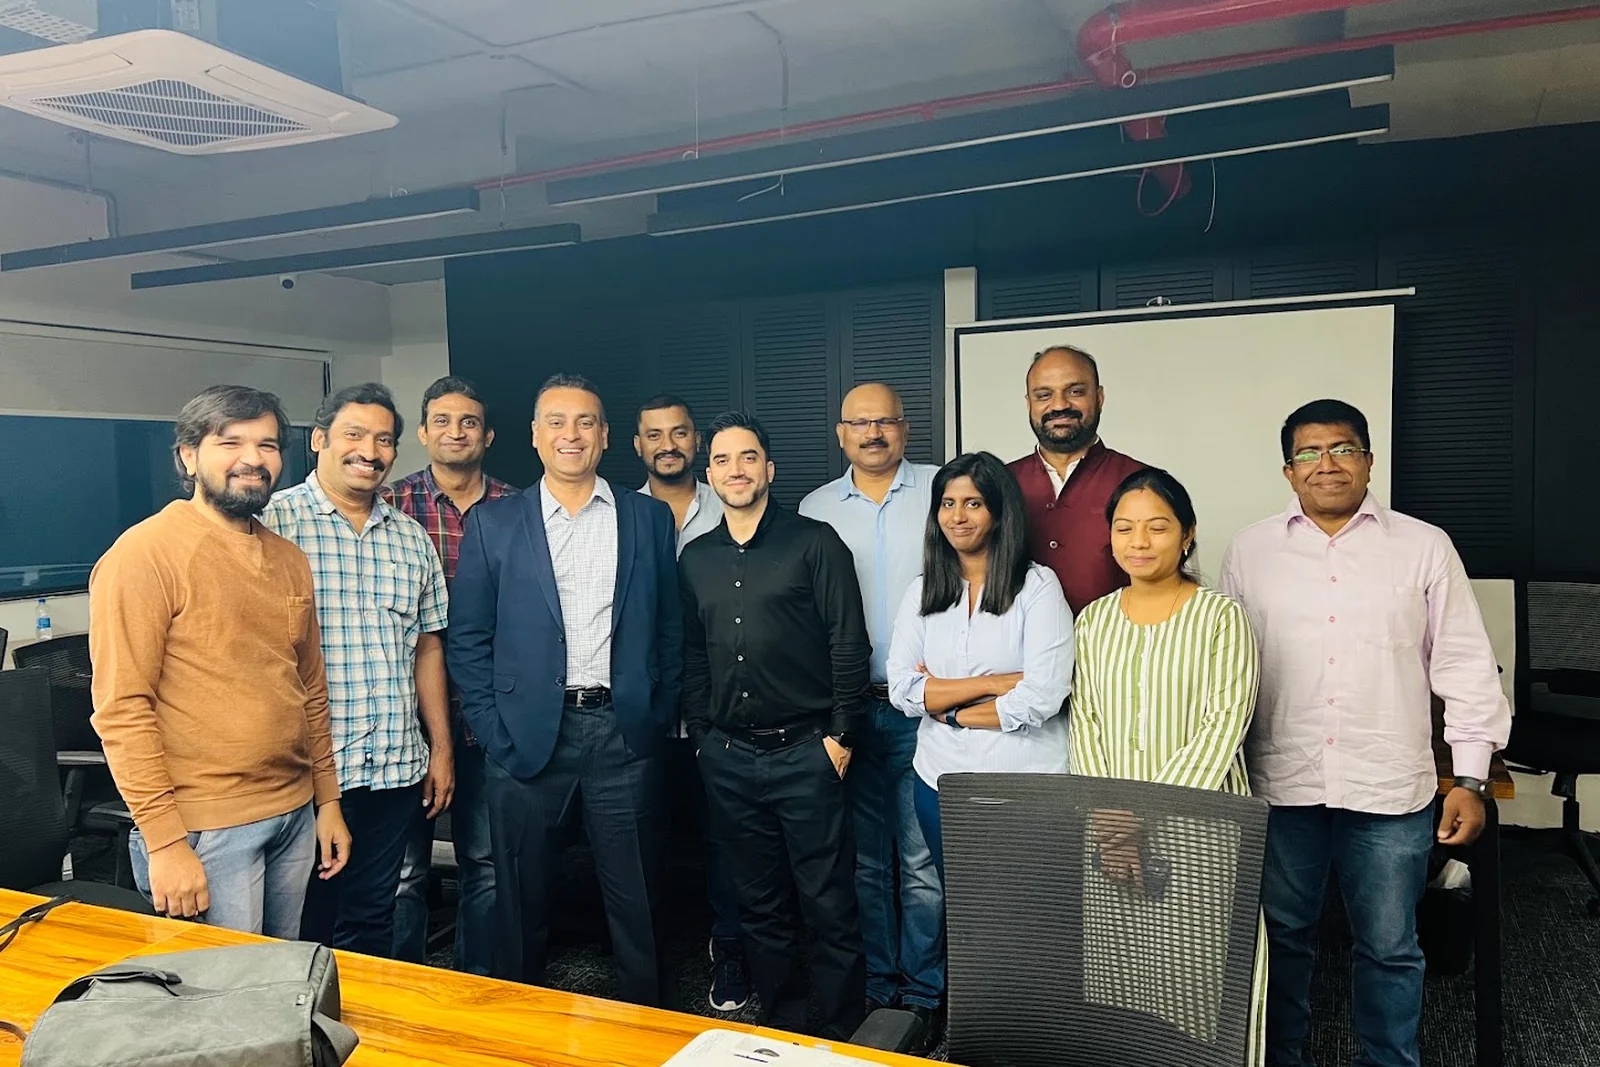
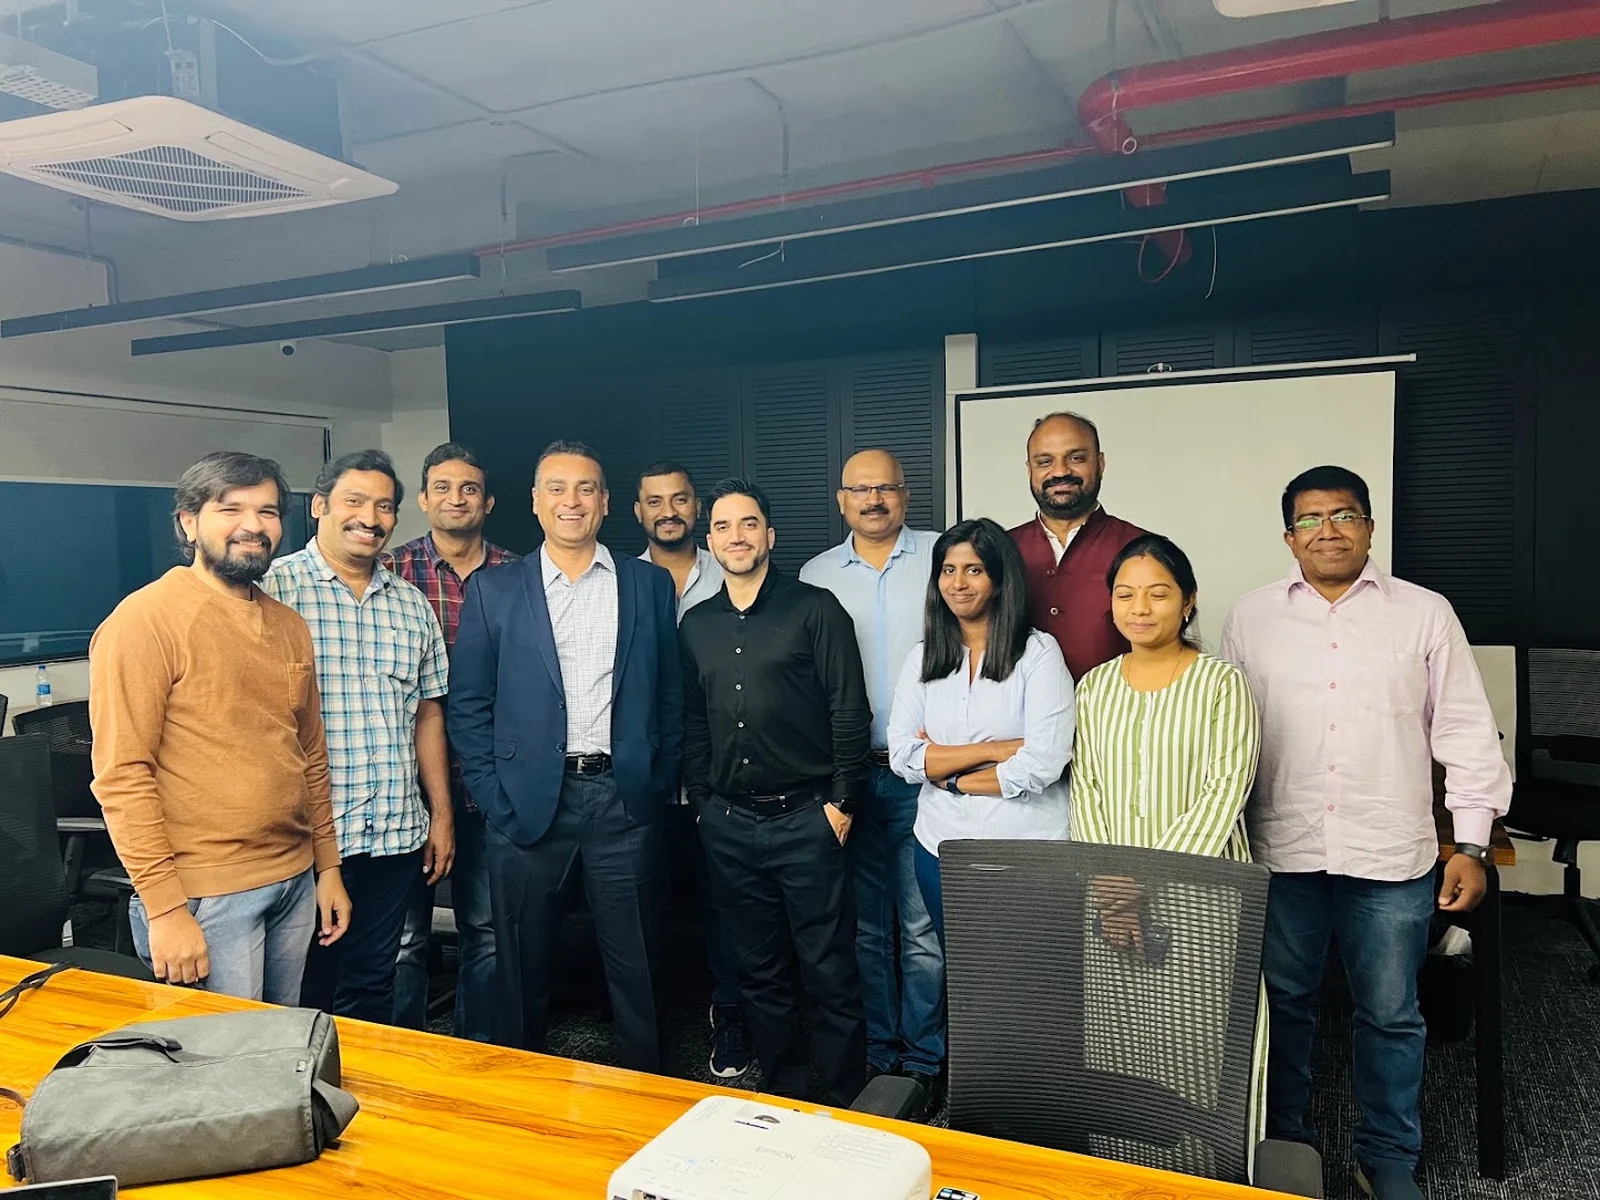
Caption the delivery-centre photographs
Three unlabelled frames read as decoration and cost the reader a moment
working out what they are looking at. Labelled, they read as
documentation of a real place, which is the only reason the band is on
the page — every other section is an assertion.

Each caption says what the frame shows and nothing more. No city, no
headcount, no "state-of-the-art": none of that is what these
photographs prove, and the copy above them already claims India.

The lead frame moves from 3:2 to 4:3, the group photograph's native
ratio. At 3:2 it lost the top and bottom of the room, and the shorter
left column squeezed the two frames beside it to nearly 2.4:1 — a
letterbox slot that crops a room photograph to a strip.

Verified: frames still align top and bottom across both columns, zero
horizontal overflow at 320/390/768/1024/1280, no contrast failures,
both locales.

Claude-Session: https://claude.ai/code/session_01WMTDqvVw5QvW6K3g3ETYPb

diff --git a/src/components/service-page.tsx b/src/components/service-page.tsx
@@ -609,40 +609,63 @@ export function ServicePageV12({ slug }: { slug: ServiceSlug }) {
               sub={s.photoBand.sub}
               headingId="delivery-centre"
             />
+            {/* Captions, not bare frames. A labelled photograph reads as
+                documentation of a real place; three unlabelled ones read as
+                decoration, and the reader spends a moment working out what
+                they are looking at instead of registering that it is real.
+
+                They also carry the discipline: each caption says what the
+                frame shows and nothing more. No city, no headcount, no
+                "state-of-the-art", none of which these photographs prove. */}
             <div className="mt-8 grid gap-4 lg:grid-cols-[minmax(0,7fr)_minmax(0,5fr)]">
-              <img
-                src={bandLead.src}
-                alt={bandLead.alt}
-                width={1446}
-                height={964}
-                loading="lazy"
-                className="aspect-[3/2] w-full rounded-2xl border border-border-strong object-cover"
-              />
+              {/* 4:3, which is the group photograph's native ratio. At 3:2 it
+                  lost the top and bottom of the frame, and the shorter left
+                  column squeezed the two beside it to nearly 2.4:1 — a
+                  letterbox slot that crops a room photograph to a strip. */}
+              <figure className="flex flex-col">
+                <div className="relative aspect-[4/3] w-full">
+                  <img
+                    src={bandLead.src}
+                    alt={bandLead.alt}
+                    width={1600}
+                    height={1200}
+                    loading="lazy"
+                    className="absolute inset-0 h-full w-full rounded-2xl border border-border-strong object-cover"
+                  />
+                </div>
+                <figcaption className="mt-3 text-[0.8125rem] leading-[1.4] text-subtle-foreground">
+                  {bandLead.caption}
+                </figcaption>
+              </figure>
+
               {/* The right column's two frames add up to exactly the height
-                  of the left one, and become two ordinary 3:2 rows on
-                  phones.
+                  of the left one, and become two ordinary 3:2 rows on phones.
 
                   The images are absolutely positioned inside their frames on
                   desktop so they contribute no height of their own. Sized
                   normally they set the row height from their own aspect
                   ratio, the column grew taller than the photograph beside it,
                   and the band lost the alignment that was the whole reason
-                  for the asymmetric grid. */}
+                  for the asymmetric grid. Each caption sits outside that
+                  wrapper, so the frames shrink to make room for it rather
+                  than pushing the column past the photograph beside it. */}
               <div className="grid gap-4 lg:grid-rows-2">
                 {bandRest.map((photo) => (
-                  <div
-                    key={photo.src}
-                    className="relative aspect-[3/2] w-full lg:aspect-auto lg:min-h-0"
-                  >
-                    <img
-                      src={photo.src}
-                      alt={photo.alt}
-                      width={1200}
-                      height={800}
-                      loading="lazy"
-                      className="absolute inset-0 h-full w-full rounded-2xl border border-border-strong object-cover"
-                    />
-                  </div>
+                  <figure key={photo.src} className="flex min-h-0 flex-col">
+                    <div className="relative aspect-[3/2] w-full lg:aspect-auto lg:min-h-0 lg:flex-1">
+                      <img
+                        src={photo.src}
+                        alt={photo.alt}
+                        width={1200}
+                        height={800}
+                        loading="lazy"
+                        className="absolute inset-0 h-full w-full rounded-2xl border border-border-strong object-cover"
+                      />
+                    </div>
+                    <figcaption className="mt-3 text-[0.8125rem] leading-[1.4] text-subtle-foreground">
+                      {photo.caption}
+                    </figcaption>
+                  </figure>
                 ))}
               </div>
             </div>

diff --git a/src/lib/service-pages.ts b/src/lib/service-pages.ts
@@ -224,7 +224,7 @@ export type ServiceContent = {
     eyebrow: string;
     heading: string;
     sub: string;
-    photos: { src: string; alt: string }[];
+    photos: { src: string; alt: string; caption: string }[];
   };
 
   /** Closing paragraph, replacing the shared "what happens next" line where a
@@ -929,14 +929,17 @@ export const SERVICE_PAGES: Record<Locale, Record<ServiceSlug, ServiceContent>> 
           {
             src: "/delivery-team.webp",
             alt: "Eleven members of the ZEDventures engineering team together in a meeting room.",
+            caption: "The engineering team.",
           },
           {
             src: "/delivery-floor.webp",
             alt: "The engineering floor seen through a glass wall, with shared desks and daylight from the windows beyond.",
+            caption: "The engineering floor.",
           },
           {
             src: "/delivery-office.webp",
             alt: "A ZEDventures banner at the entrance to the office, beside the glass wall of the engineering floor.",
+            caption: "The entrance.",
           },
         ],
       },
@@ -1447,14 +1450,17 @@ export const SERVICE_PAGES: Record<Locale, Record<ServiceSlug, ServiceContent>> 
           {
             src: "/delivery-team.webp",
             alt: "Onze membres de l'équipe d'ingénierie de ZEDventures réunis dans une salle de réunion.",
+            caption: "L'équipe d'ingénierie.",
           },
           {
             src: "/delivery-floor.webp",
             alt: "Le plateau d'ingénierie vu à travers une cloison vitrée, avec des postes partagés et la lumière du jour au fond.",
+            caption: "Le plateau d'ingénierie.",
           },
           {
             src: "/delivery-office.webp",
             alt: "Un kakémono ZEDventures à l'entrée du bureau, contre la cloison vitrée du plateau d'ingénierie.",
+            caption: "L'entrée.",
           },
         ],
       },
